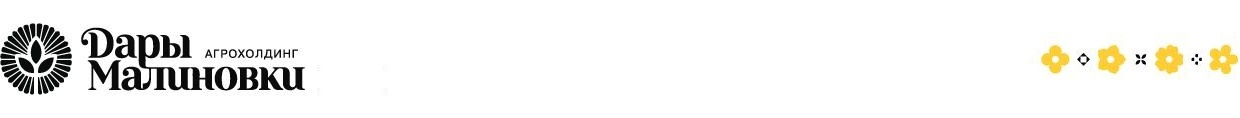
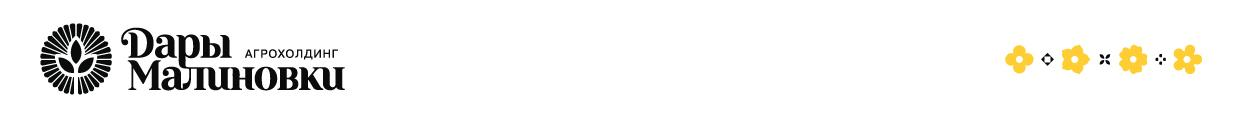
fix(pdf): шапка как в образце - оригинальный letterhead на всю ширину листа от левого края, зазор HEADER_GAP сохранён на альбомных страницах (Fixes #59)

Changed region(s): [[0.0, 0.2034, 0.2758, 0.8136], [0.7968, 0.3559, 1.0, 0.6356]]

diff --git a/src/test/java/com/viking/generator/util/PassportPageEventHandlerTest.java b/src/test/java/com/viking/generator/util/PassportPageEventHandlerTest.java
@@ -10,9 +10,11 @@ import org.junit.jupiter.api.Test;
 import org.openpdf.text.Rectangle;
 
 /**
- * Геометрия верхнего колонтитула: шапка не должна заходить в область контента,
- * иначе на альбомных страницах она закрашивает верхнюю границу таблицы,
- * продолжающейся с предыдущей страницы.
+ * Геометрия верхнего колонтитула. Раскладка повторяет образец «26ХХХХХ Письмо(БланкЧистыйЛист)»:
+ * шапка растянута на всю ширину листа и прижата к левому краю страницы ({@code positionH
+ * relativeFrom="page" align="left"}). На повёрнутых (альбомных) страницах полная ширина
+ * дала бы картинку выше верхнего поля — там высота ограничена зазором HEADER_GAP, чтобы
+ * шапка не закрашивала верхнюю границу таблиц, продолжающихся с предыдущей страницы.
  */
 class PassportPageEventHandlerTest {
 
@@ -27,52 +29,63 @@ class PassportPageEventHandlerTest {
     private static final float IMG_H = 118f;
 
     @Test
-    @DisplayName("Шапка не выходит в область контента ни на портретной, ни на альбомной странице")
-    void headerStaysAboveContentOnBothOrientations() {
-        float contentTop = PORTRAIT_H - PdfUIHelper.MARGIN_TOP;
+    @DisplayName("Шапка на портретной странице — на всю ширину листа, прижата к левому краю, как в образце")
+    void portraitHeaderSpansFullPageWidthFromLeftEdge() {
         Rectangle portrait = PassportPageEventHandler.headerPlacement(
                 PORTRAIT_W, PORTRAIT_H, IMG_W, IMG_H);
         assertNotNull(portrait);
-        // Регрессия: нижний край шапки должен быть не ниже contentTop + HEADER_GAP,
-        // иначе на альбомной странице закрашивается верхняя граница продолжающейся таблицы.
-        assertTrue(portrait.getBottom() >= contentTop + PassportPageEventHandler.HEADER_GAP - EPS,
-                "Портрет: шапка не оставляет зазор HEADER_GAP перед контентом: " + portrait);
+        // Образец: positionH relativeFrom="page" align="left" — прижат к левому краю страницы.
+        assertEquals(0f, portrait.getLeft(), EPS, "Шапка должна быть прижата к левому краю страницы: " + portrait);
+        // Ширина — вся страница (595 pt), как extent 592.7 из образца.
+        assertEquals(PORTRAIT_W, portrait.getWidth(), 1f, "Шапка должна занимать всю ширину листа: " + portrait);
+        // Высота не может превышать верхнее поле — иначе перекроет контент.
+        assertTrue(portrait.getHeight() <= PdfUIHelper.MARGIN_TOP + EPS,
+                "Высота шапки превышает верхнее поле: " + portrait);
+    }
 
+    @Test
+    @DisplayName("На альбомной странице шапка не выходит в контент: высота ограничена, зазор HEADER_GAP сохранён")
+    void landscapeHeaderKeepsGapAboveContent() {
         float landscapeContentTop = LANDSCAPE_H - PdfUIHelper.MARGIN_TOP;
         Rectangle landscape = PassportPageEventHandler.headerPlacement(
                 LANDSCAPE_W, LANDSCAPE_H, IMG_W, IMG_H);
         assertNotNull(landscape);
+        // Регрессия: нижний край шапки должен быть не ниже contentTop + HEADER_GAP,
+        // иначе на альбомной странице закрашивается верхняя граница продолжающейся таблицы.
         assertTrue(landscape.getBottom() >= landscapeContentTop + PassportPageEventHandler.HEADER_GAP - EPS,
                 "Альбом: шапка не оставляет зазор HEADER_GAP перед контентом: " + landscape);
+        // Полная ширина (842) дала бы высоту ~80 pt > верхнее поле — сжимаем, пропорции сохраняются.
+        assertTrue(landscape.getHeight() <= PdfUIHelper.MARGIN_TOP - PassportPageEventHandler.HEADER_GAP + EPS,
+                "Высота шапки превышает верхнее поле с зазором: " + landscape);
     }
 
     @Test
-    @DisplayName("Шапка вписывается в высоту верхнего поля и в ширину текстовой области")
-    void headerFitsMargins() {
+    @DisplayName("Шапка не выходит за пределы страницы ни на одной ориентации")
+    void headerStaysInsidePageOnBothOrientations() {
         for (Rectangle rect : new Rectangle[]{
                 PassportPageEventHandler.headerPlacement(PORTRAIT_W, PORTRAIT_H, IMG_W, IMG_H),
                 PassportPageEventHandler.headerPlacement(LANDSCAPE_W, LANDSCAPE_H, IMG_W, IMG_H)}) {
             assertNotNull(rect);
-            assertTrue(rect.getHeight() <= PdfUIHelper.MARGIN_TOP - PassportPageEventHandler.HEADER_GAP + EPS,
-                    "Высота шапки превышает верхнее поле с зазором: " + rect);
-            assertTrue(rect.getLeft() >= PdfUIHelper.MARGIN_LEFT - EPS,
-                    "Шапка вылезает за левое поле: " + rect);
+            assertTrue(rect.getLeft() >= -EPS, "Шапка вылезает за левый край страницы: " + rect);
+            assertTrue(rect.getLeft() + rect.getWidth() <= Math.max(PORTRAIT_W, LANDSCAPE_W) + EPS,
+                    "Шапка шире страницы: " + rect);
+            // Верх шапки — ровно у верхнего края страницы (как в образце: extent впритык к полю).
+            float top = rect.getBottom() + rect.getHeight();
+            assertTrue(Math.abs(top - PORTRAIT_H) < EPS || Math.abs(top - LANDSCAPE_H) < EPS,
+                    "Верх шапки не совпадает с верхом страницы: " + rect);
         }
-        // Правое поле — с учётом ширины конкретной страницы (портрет 595, альбом 842).
-        Rectangle landscape = PassportPageEventHandler.headerPlacement(LANDSCAPE_W, LANDSCAPE_H, IMG_W, IMG_H);
-        assertNotNull(landscape);
-        assertTrue(landscape.getLeft() + landscape.getWidth()
-                        <= LANDSCAPE_W - PdfUIHelper.MARGIN_RIGHT + EPS,
-                "Шапка вылезает за правое поле на альбомной странице: " + landscape);
     }
 
     @Test
     @DisplayName("Пропорции шапки сохраняются")
     void headerKeepsAspectRatio() {
-        Rectangle portrait = PassportPageEventHandler.headerPlacement(PORTRAIT_W, PORTRAIT_H, IMG_W, IMG_H);
-        assertNotNull(portrait);
-        float expectedAspect = IMG_W / IMG_H;
-        assertEquals(expectedAspect, portrait.getWidth() / portrait.getHeight(), 0.05f);
+        for (Rectangle rect : new Rectangle[]{
+                PassportPageEventHandler.headerPlacement(PORTRAIT_W, PORTRAIT_H, IMG_W, IMG_H),
+                PassportPageEventHandler.headerPlacement(LANDSCAPE_W, LANDSCAPE_H, IMG_W, IMG_H)}) {
+            assertNotNull(rect);
+            float expectedAspect = IMG_W / IMG_H;
+            assertEquals(expectedAspect, rect.getWidth() / rect.getHeight(), 0.05f);
+        }
     }
 
     @Test

diff --git a/src/main/java/com/viking/generator/util/PassportPageEventHandler.java b/src/main/java/com/viking/generator/util/PassportPageEventHandler.java
@@ -74,10 +74,12 @@ public class PassportPageEventHandler extends PdfPageEventHelper {
     }
 
     /**
-     * Фирменная шапка сверху страницы: вписывается в ширину текстовой области и,
-     * что важнее, не выходит за верхнее поле — нижний край шапки всегда выше верхней
-     * границы контента минимум на {@link #HEADER_GAP} пунктов, чтобы не закрашивать
-     * верхние границы таблиц, продолжающихся с предыдущей страницы.
+     * Фирменная шапка сверху страницы — как в образце «26ХХХХХ Письмо(БланкЧистыйЛист)»:
+     * растянута на всю ширину листа от левого края страницы ({@code positionH
+     * relativeFrom="page" align="left"}, extent 592.7×56.4 pt против страницы 595 pt).
+     * На повёрнутых (альбомных) страницах полная ширина дала бы картинку выше верхнего
+     * поля — там высота ограничивается зазором {@link #HEADER_GAP}, чтобы шапка не
+     * закрашивала верхнюю границу таблиц, продолжающихся с предыдущей страницы.
      */
     private void drawHeader(PdfWriter writer) {
         if (headerImage == null) {
@@ -107,10 +109,15 @@ public class PassportPageEventHandler extends PdfPageEventHelper {
     }
 
     /**
-     * Прямоугольник шапки в координатах PDF (нижний левый угол — начало координат):
-     * сохраняет пропорции картинки, вписывается в ширину текстовой области и в высоту
-     * верхнего поля с зазором {@link #HEADER_GAP}. Возвращает {@code null}, если
-     * пропорции некорректны. Вынесено в статический метод для юнит-тестов геометрии.
+     * Прямоугольник шапки в координатах PDF (нижний левый угол — начало координат).
+     * Повторяет раскладку образца: шапка растянута на всю ширину листа и прижата к левому
+     * краю страницы (в образце {@code positionH relativeFrom="page" align="left"}),
+     * сохраняя пропорции картинки. На портретной странице высота выходит впритык к верхнему
+     * полю (как extent из образца: 56.4–56.6 pt при поле 56.7 pt). На альбомной (повёрнутой)
+     * странице полная ширина дала бы картинку выше верхнего поля — высота ограничивается
+     * {@link #HEADER_GAP}-зазором, чтобы шапка не закрашивала верхнюю границу таблиц,
+     * продолжающихся с предыдущей страницы. Возвращает {@code null} при некорректных пропорциях.
+     * Вынесено в статический метод для юнит-тестов геометрии.
      */
     static Rectangle headerPlacement(float pageWidth, float pageHeight,
             float imageWidth, float imageHeight) {
@@ -118,18 +125,23 @@ public class PassportPageEventHandler extends PdfPageEventHelper {
                 || !Float.isFinite(imageHeight) || imageHeight <= 0f) {
             return null;
         }
-        float availableWidth = pageWidth - PdfUIHelper.MARGIN_LEFT - PdfUIHelper.MARGIN_RIGHT;
-        if (availableWidth <= 0f) {
+        // Проекция на всю ширину страницы по пропорциям картинки (образец: align="left" от края страницы).
+        float aspect = imageWidth / imageHeight;
+        float height = pageWidth / aspect;
+        if (height <= 0f) {
             return null;
         }
-        float aspect = imageWidth / imageHeight;
-        float maxHeight = PdfUIHelper.MARGIN_TOP - HEADER_GAP;
-        float height = Math.min(availableWidth / aspect, maxHeight);
+        // Полная ширина не всегда помещается в верхнее поле: на альбомной странице
+        // (842 pt) та же картинка стала бы выше поля (56.7 pt) и перекрыла бы контент.
+        float maxHeight = PdfUIHelper.MARGIN_TOP;
+        if (height > maxHeight) {
+            height = maxHeight - HEADER_GAP;
+        }
         if (height <= 0f) {
             return null;
         }
         float width = height * aspect;
-        float x = PdfUIHelper.MARGIN_LEFT + (availableWidth - width) / 2f;
+        float x = 0f; // прижата к левому краю страницы, как в образце
         float y = pageHeight - height;
         // Rectangle хранит углы (llx, lly, urx, ury), а не (x, y, w, h).
         return new Rectangle(x, y, x + width, y + height);
